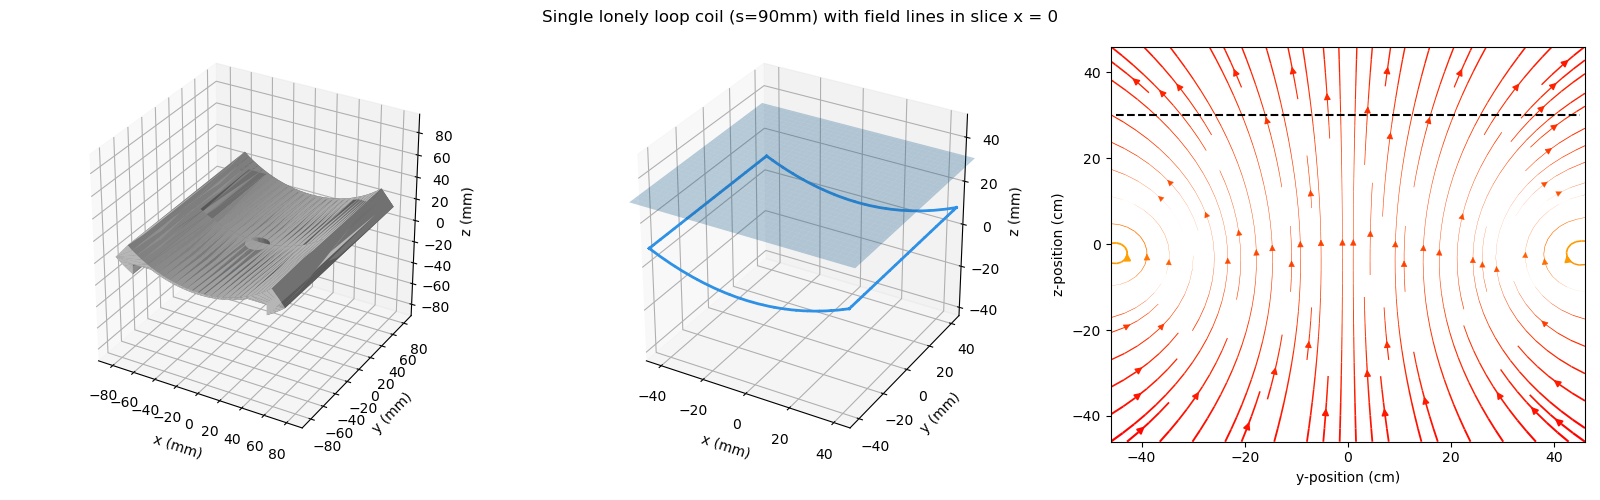
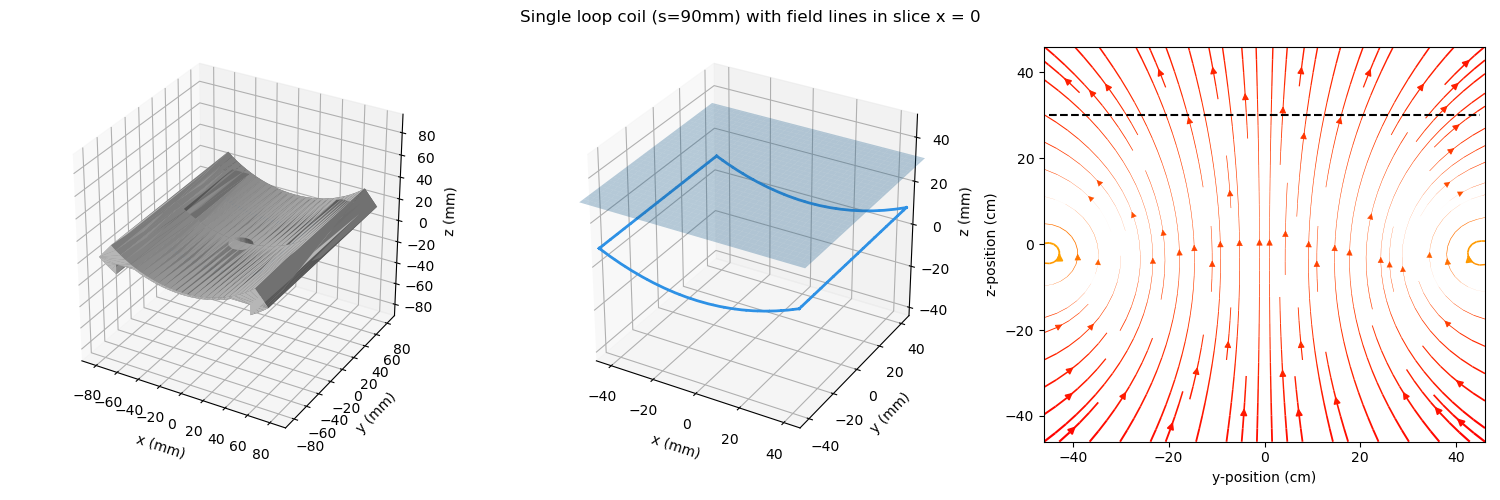
name change

diff --git a/coil_figure_MMIV_abstract.py b/coil_figure_MMIV_abstract.py
@@ -135,8 +135,8 @@ the_coil = magpy.Collection((cur_arc_neg, cur_line_pos, cur_arc_pos, cur_line_ne
 
 special_single_loop = MRI_coil.MRI_coil(current=100, diameter=90, custom_coil=True, custom_coil_current_line=the_coil)
 
-fig2 = plt.figure(figsize=[16, 5])
-fig2.suptitle("Single lonely loop coil (s=90mm) with field lines in slice x = 0")
+fig2 = plt.figure(figsize=[15, 5])
+fig2.suptitle("Single loop coil (s=90mm) with field lines in slice x = 0")
 ax1 = fig2.add_subplot(1,3,1, projection="3d")
 ax2 = fig2.add_subplot(1,3,2, projection="3d")
 ax3 = fig2.add_subplot(1,3,3)

diff --git a/nanoVNA_plots.py b/nanoVNA_plots.py
@@ -76,7 +76,7 @@ ax1 = fig.add_subplot(1,2,1)
 c1 = "steelblue"
 c2 = "orange"
 plot_magn_phase(ax1, freqs, magn_db, phase, color1=c1, color2=c2, show_phase=False)
-ax1.set_title("S_11 plot of single lonely loop loaded with elbow")
+ax1.set_title("S_11 plot of single loop loaded with elbow")
 min_mag = np.min(magn)
 min_index = np.where(magn==min_mag)
 plots = ax1.plot(freqs[min_index], magn_db[min_index])
